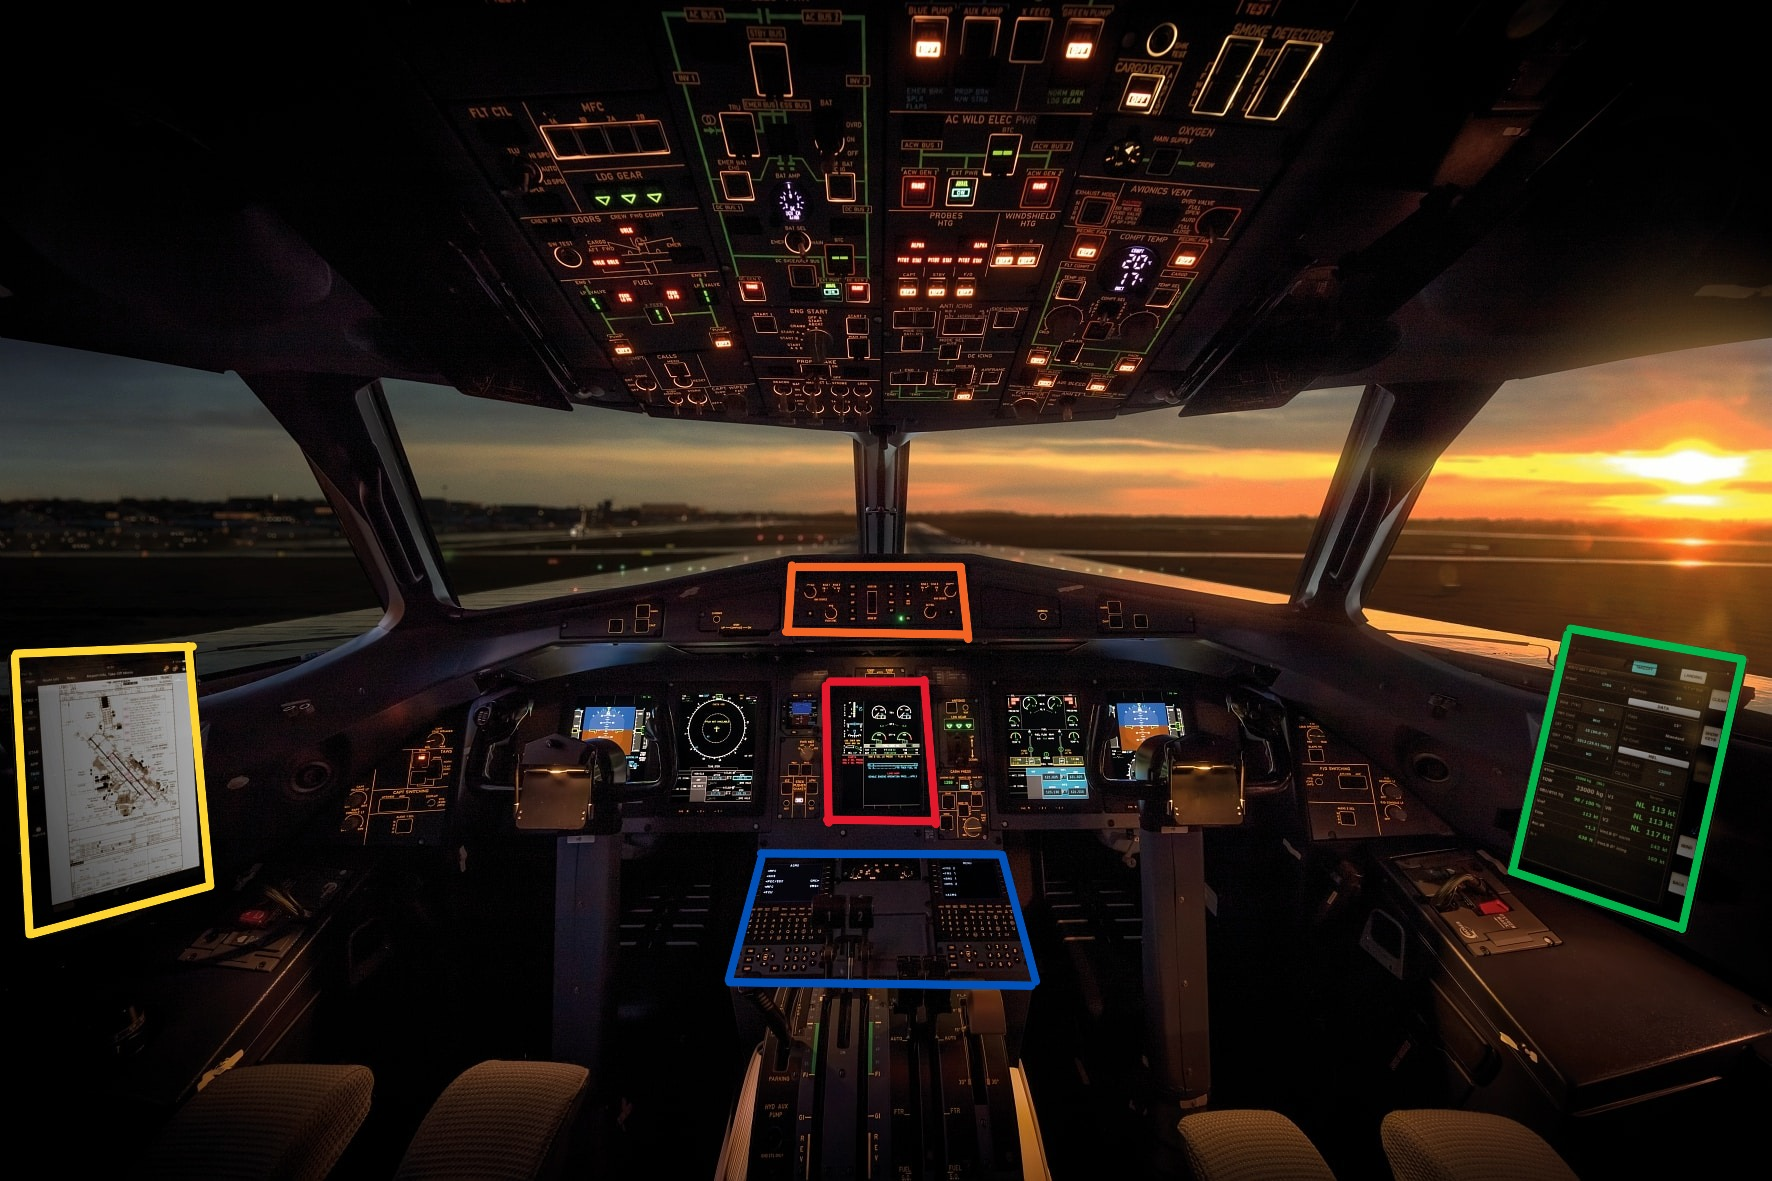
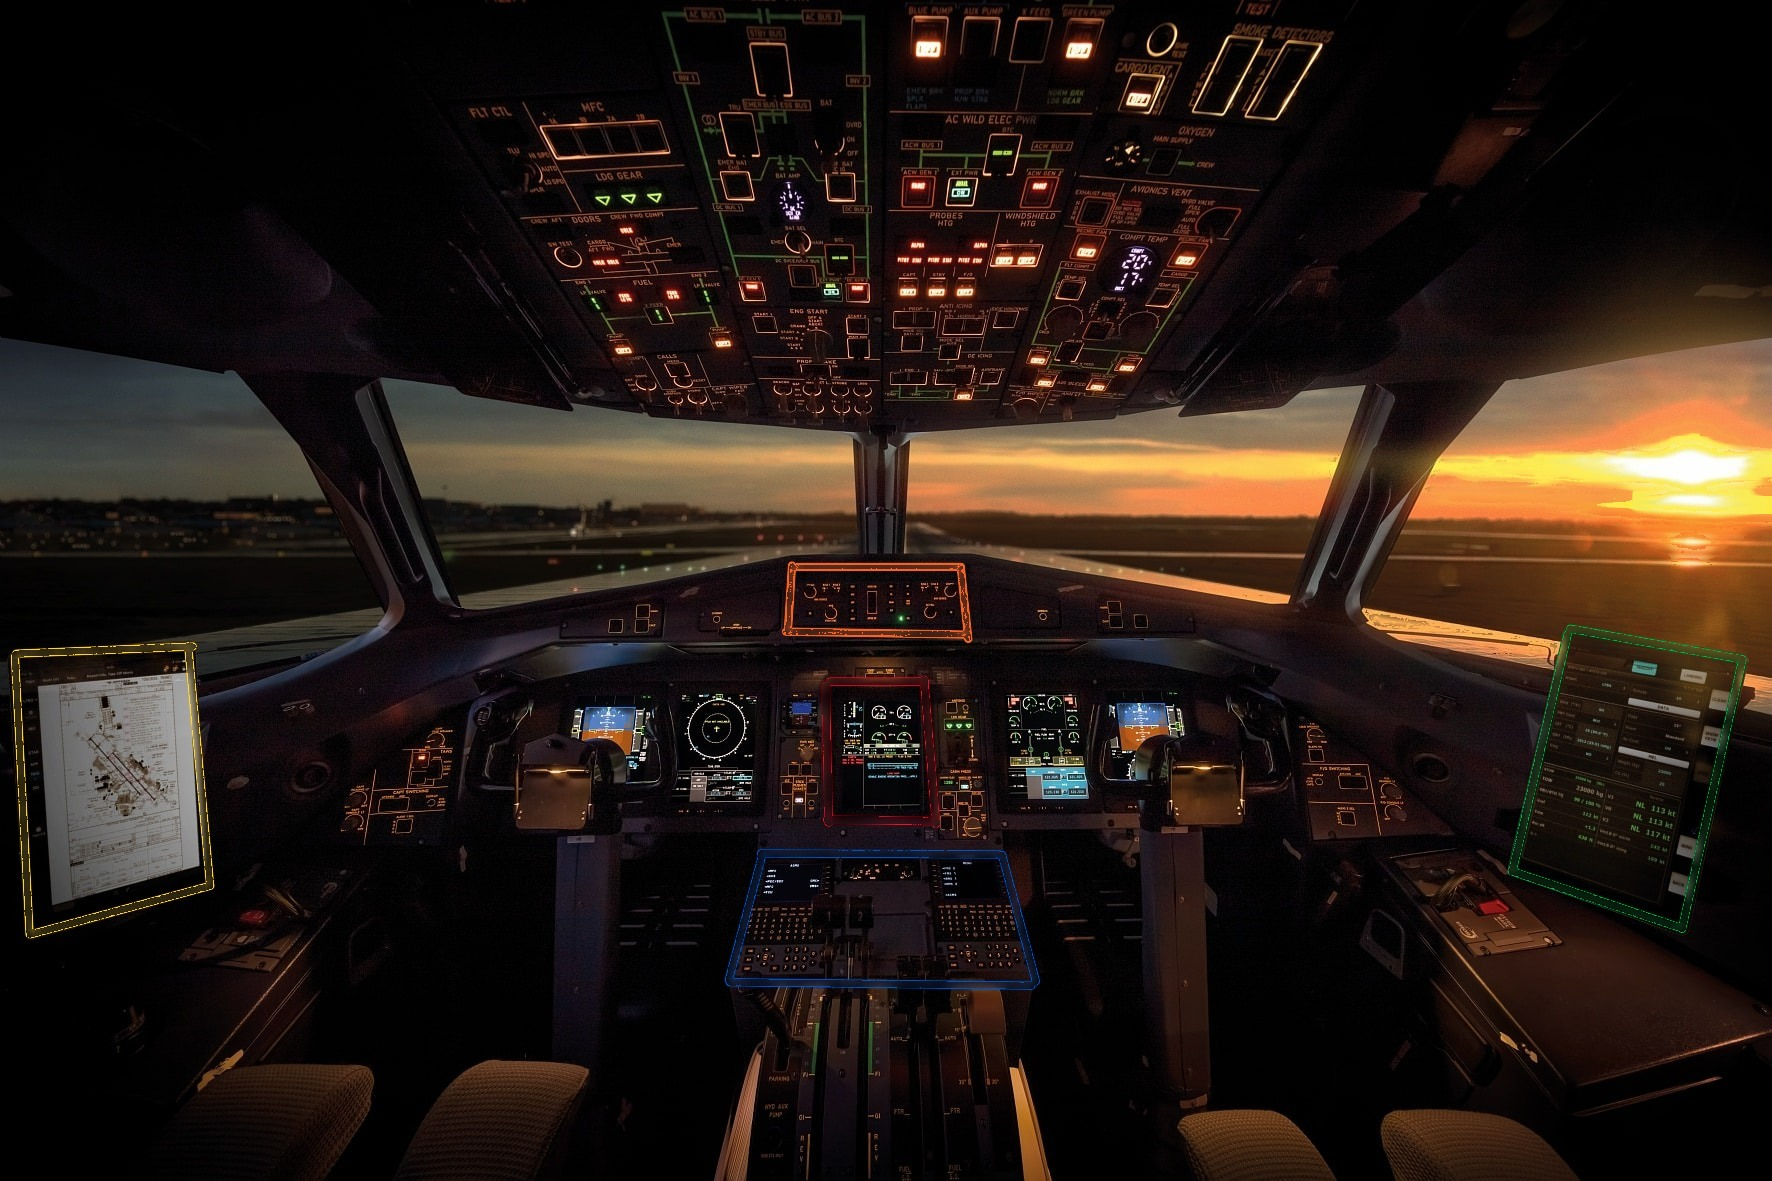
pixel-perfect hotspot zones + remove colored box outlines from image
Used System.Drawing pixel scan to get exact bounding boxes for all four
zones. Replaced colored outline pixels (orange/red/blue/green/yellow) in
the cockpit JPEG with averaged surrounding pixels so the image is clean.
SVG zone coordinates now match the detected pixel positions exactly.

diff --git a/src/App.jsx b/src/App.jsx
@@ -884,36 +884,36 @@ Start by introducing yourself briefly in-character with personality, and give an
                 <defs>
                   <style>{`.cz{fill:rgba(255,255,255,0);stroke:rgba(255,255,255,0);stroke-width:2;stroke-dasharray:8 5;cursor:pointer;transition:fill .25s,stroke .25s}.czg:hover .cz{fill:rgba(255,255,255,0.06);stroke:rgba(255,255,255,0.4)}.ctt{opacity:0;pointer-events:none;transition:opacity .2s}.czg:hover .ctt{opacity:1}`}</style>
                 </defs>
-                {/* Orange → Partners */}
+                {/* Orange → Partners  (pixel-detected: x=787 y=565 w=180 h=66) */}
                 <g className="czg" onClick={() => setCockpitSection("partners")} style={{ cursor: "pointer" }}>
-                  <rect className="cz" x={797} y={390} width={213} height={106} />
+                  <rect className="cz" x={787} y={565} width={180} height={66} />
                   <g className="ctt">
-                    <rect x={846} y={363} width={115} height={22} rx={4} fill="rgba(0,0,0,0.85)" />
-                    <text x={903} y={378} fontSize={11} fill="#f0f0f0" textAnchor="middle" fontFamily="Space Mono, monospace" letterSpacing={2}>PARTNERS</text>
+                    <rect x={819} y={538} width={115} height={22} rx={4} fill="rgba(0,0,0,0.85)" />
+                    <text x={876} y={553} fontSize={11} fill="#f0f0f0" textAnchor="middle" fontFamily="Space Mono, monospace" letterSpacing={2}>PARTNERS</text>
                   </g>
                 </g>
-                {/* Green → Features */}
+                {/* Green → Features  (pixel-detected: x=1508 y=625 w=237 h=306) */}
                 <g className="czg" onClick={() => setCockpitSection("features")} style={{ cursor: "pointer" }}>
-                  <rect className="cz" x={1542} y={461} width={213} height={283} />
+                  <rect className="cz" x={1508} y={625} width={237} height={306} />
                   <g className="ctt">
-                    <rect x={1549} y={434} width={115} height={22} rx={4} fill="rgba(0,0,0,0.85)" />
-                    <text x={1606} y={449} fontSize={11} fill="#f0f0f0" textAnchor="middle" fontFamily="Space Mono, monospace" letterSpacing={2}>FEATURES</text>
+                    <rect x={1508} y={598} width={115} height={22} rx={4} fill="rgba(0,0,0,0.85)" />
+                    <text x={1565} y={613} fontSize={11} fill="#f0f0f0" textAnchor="middle" fontFamily="Space Mono, monospace" letterSpacing={2}>FEATURES</text>
                   </g>
                 </g>
-                {/* Red → How It Works */}
+                {/* Red → How It Works  (pixel-detected: x=822 y=676 w=117 h=151) */}
                 <g className="czg" onClick={() => setCockpitSection("how-it-works")} style={{ cursor: "pointer" }}>
-                  <rect className="cz" x={727} y={508} width={159} height={177} />
+                  <rect className="cz" x={822} y={676} width={117} height={151} />
                   <g className="ctt">
-                    <rect x={647} y={481} width={160} height={22} rx={4} fill="rgba(0,0,0,0.85)" />
-                    <text x={727} y={496} fontSize={11} fill="#f0f0f0" textAnchor="middle" fontFamily="Space Mono, monospace" letterSpacing={2}>HOW IT WORKS</text>
+                    <rect x={800} y={649} width={160} height={22} rx={4} fill="rgba(0,0,0,0.85)" />
+                    <text x={880} y={664} fontSize={11} fill="#f0f0f0" textAnchor="middle" fontFamily="Space Mono, monospace" letterSpacing={2}>HOW IT WORKS</text>
                   </g>
                 </g>
-                {/* Blue → Log In */}
+                {/* Blue → Log In  (pixel-detected: x=584 y=704 w=582 h=284) */}
                 <g className="czg" onClick={() => goTo("login")} style={{ cursor: "pointer" }}>
-                  <rect className="cz" x={655} y={673} width={320} height={154} />
+                  <rect className="cz" x={584} y={704} width={582} height={284} />
                   <g className="ctt">
-                    <rect x={773} y={646} width={85} height={22} rx={4} fill="rgba(0,0,0,0.85)" />
-                    <text x={815} y={661} fontSize={11} fill="#f0f0f0" textAnchor="middle" fontFamily="Space Mono, monospace" letterSpacing={2}>LOG IN</text>
+                    <rect x={833} y={677} width={85} height={22} rx={4} fill="rgba(0,0,0,0.85)" />
+                    <text x={875} y={692} fontSize={11} fill="#f0f0f0" textAnchor="middle" fontFamily="Space Mono, monospace" letterSpacing={2}>LOG IN</text>
                   </g>
                 </g>
               </svg>
